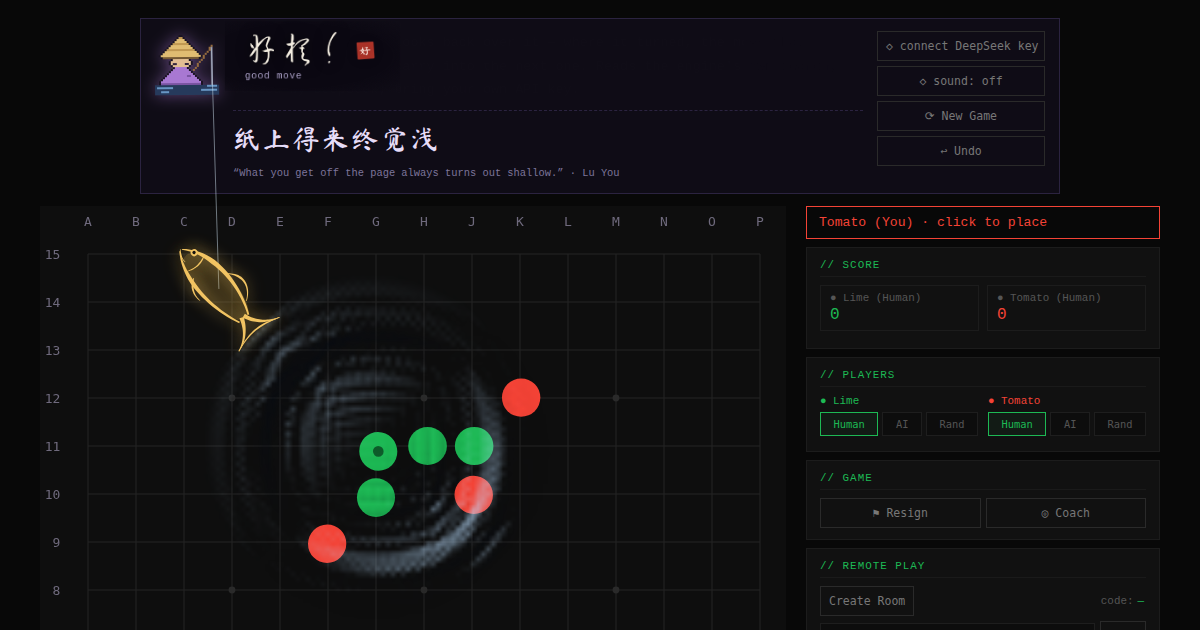
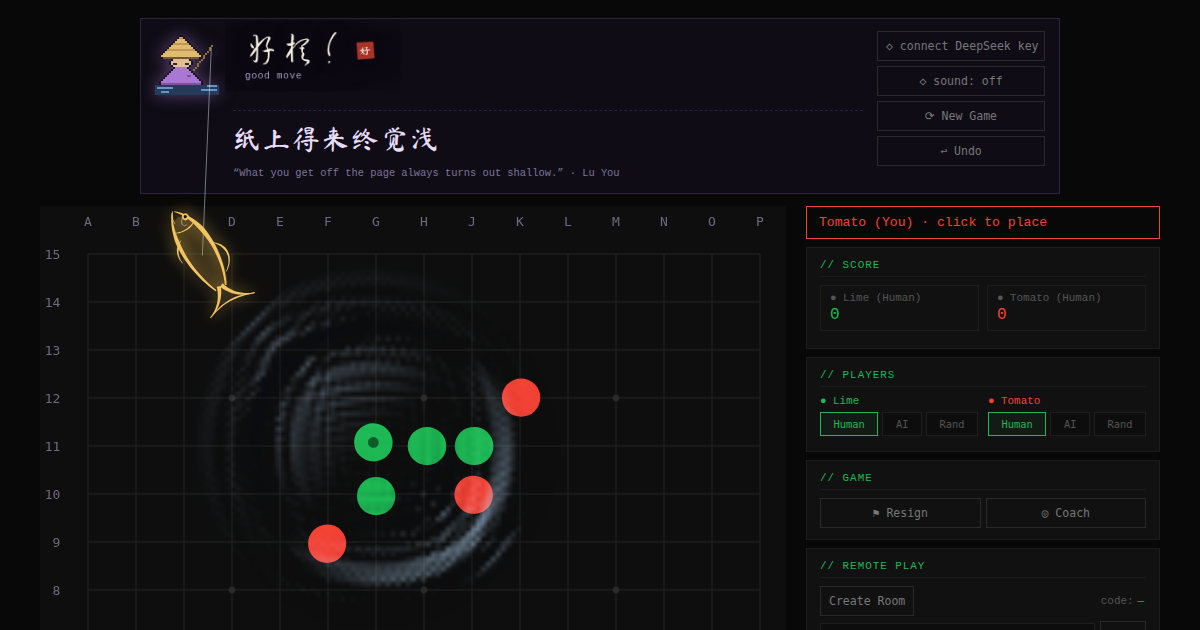
Only ever one fishing line
The sprite carried its own line, baked straight down column 28 from the
rod tip. The canvas draws a line too, from that same tip to whatever is
on the end of it — so as soon as a catch swung off to one side you saw
two: his, still hanging vertical, and the real one, slanted away to the
fish. Dead obvious once seen, and it was in both promo images.

The sprite he wears in the game has no line now. The resting one is a
rule on the facewrap, same column, same two pixels, and it steps aside
whenever the canvas has a line of its own. Asked off the drop's
direction rather than its per-frame tip, so the handover happens on the
frame the catch starts instead of one frame late — a thrown tin has no
line and never triggers it. The undo lift is a catch too and gets the
same handover; new game puts the resting line back.

sprites/guru.png keeps its line: on the arcade card he is a still
picture with nothing drawn over him, and there the baked one is right.

Both images regenerated, since the doubled line was baked into them.

Changed region(s): [[0.1233, 0.3317, 0.3392, 0.754], [0.2775, 0.6333, 0.4317, 0.9349], [0.1542, 0.0905, 0.185, 0.1508]]

diff --git a/game/gomoku.html b/game/gomoku.html
@@ -231,6 +231,22 @@
       display: block; width: 64px; height: 64px; image-rendering: pixelated;
       filter: drop-shadow(0 0 8px rgba(168,120,210,0.5));
     }
+    /* The sprite used to carry its own line, baked straight down column 28.
+       The canvas draws a line too, from the rod tip to whatever is on the end
+       of it — so the moment a catch swung off to one side you saw both: his,
+       hanging vertical, and the real one, slanted. The sprite he wears here has
+       no line; this is it, in the same place and the same two pixels wide, and
+       it gets out of the way when the canvas takes the line over. */
+    .oracle-facewrap::after {
+      content: ''; position: absolute; pointer-events: none;
+      left: 87.5%;            /* column 28 of 32 */
+      top: 25%;               /* row 8, where the rod tip is */
+      width: 3.125%;          /* one sprite pixel */
+      height: 59.375%;        /* down to row 27 */
+      background: #767688;
+      transition: opacity 90ms linear;
+    }
+    .oracle-facewrap.linelive::after { opacity: 0; }
     .oracle-card.speaking .oracle-face { animation: guru-breathe 2.6s ease-in-out infinite; }
     @keyframes guru-breathe { 0%,100% { transform: translateY(0); } 50% { transform: translateY(-2px); } }
     /* the cast: he leans back off the rod, then swings it out over the board */
@@ -370,7 +386,7 @@
 <div class="oracle-card" id="oracleCard">
   <div class="oracle-row">
     <div class="oracle-facewrap">
-      <img class="oracle-face" id="oracleFace" src="../sprites/guru.png" alt="" width="64" height="64">
+      <img class="oracle-face" id="oracleFace" src="../sprites/guru-noline.png" alt="" width="64" height="64">
       <div class="guru-shout" id="guruShout" aria-live="polite"></div>
     </div>
     <div style="flex:1;min-width:0">
@@ -649,7 +665,7 @@ function newGame() {
   if (_cb) { delete _cb.dataset.live; _cb.classList.remove('waiting'); }
   renderEngineVoiceUI();
   _lastPraise = -9; _lastScold = -9;
-  drop = null; ripple = null; lifts = []; jolts.clear();
+  drop = null; ripple = null; lifts = []; jolts.clear(); setLineLive(false);
   if (waveCur) { waveCur.fill(0); wavePrev.fill(0); waveLive = 0; waveAge = 0; waveUntil = 0; }
   rpStop(); replay = null; reviewData = null; reviewOpen = false;
   renderReplayUI();
@@ -1284,6 +1300,18 @@ function reel(from, u) {
   return { x: tip.x + Math.cos(a) * r, y: tip.y + Math.sin(a) * r, tip, e };
 }
 
+/* Only ever one line. The resting one is a CSS rule on the facewrap and the
+   live one is drawn below; this hands over between them. Compared before
+   touching the DOM because it is asked on every frame and the answer almost
+   never changes. */
+let _lineLive = false;
+function setLineLive(on) {
+  if (on === _lineLive) return;
+  _lineLive = on;
+  const w = document.querySelector('.oracle-facewrap');
+  if (w) w.classList.toggle('linelive', on);
+}
+
 // the line itself, taut from the rod to whatever is on the end of it
 function drawLine(g, tip, x, y, alpha) {
   g.save();
@@ -1544,6 +1572,10 @@ function animFrame(now) {
   if (drop && now - drop.t0 > drop.dur) drop = null;
   if (ripple && now - ripple.t0 > ripple.dur) ripple = null;
   if (lifts.length) lifts = lifts.filter(l => now - l.t0 <= LIFT);
+  // dir 'out' is a catch and has a line; a thrown tin arrives without one.
+  // Asked off the drop's direction, not its per-frame tip, so the handover
+  // happens on the frame the catch starts rather than one frame late.
+  setLineLive(!!(drop && drop.dir === 'out') || lifts.length > 0);
   draw();
   drawDrop();          // on its own layer, over the whole page
   if (drop || ripple || waveLive || lifts.length || jolts.size) ensureAnim();

diff --git a/sw.js b/sw.js
@@ -1,6 +1,6 @@
 /* Life Game service worker — offline app shell.
    Bump CACHE on each release so clients pick up new files. */
-const CACHE = 'lifegame-v20';
+const CACHE = 'lifegame-v21';
 const CORE = [
   '/',
   '/index.html',
